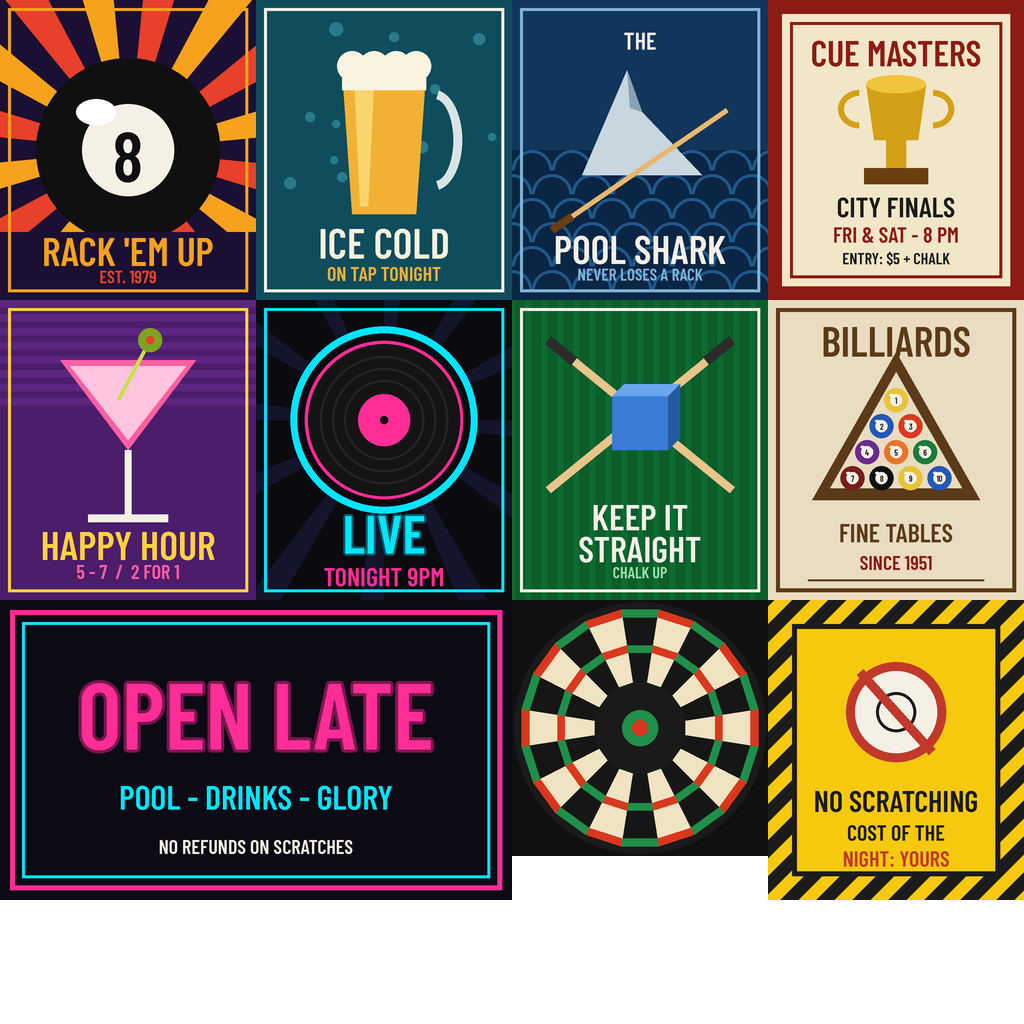
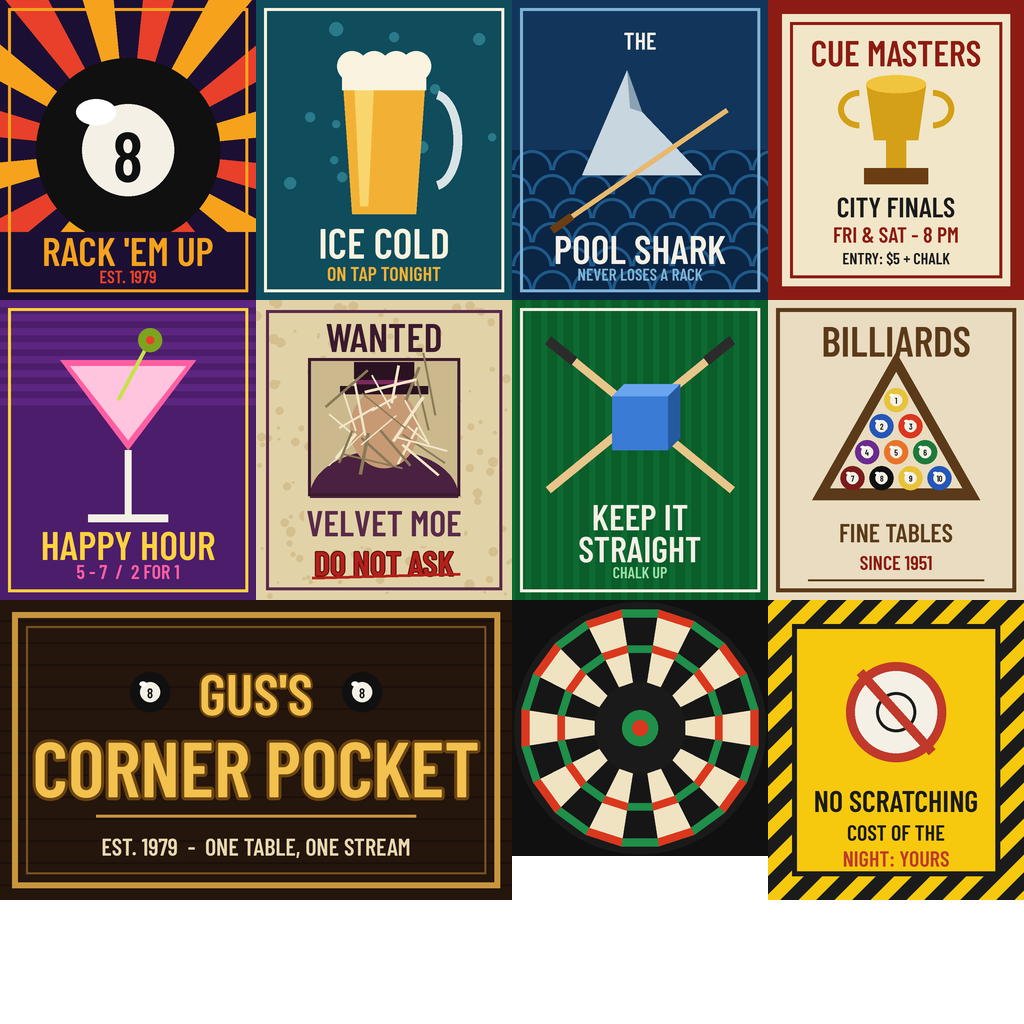
docs(06,09,03,04): P29-P32 rulings, story decisions; posters: wanted Moe + Corner Pocket sign
09 §6 decided (Moe real, in the stream chat as velvet; text only; lower blips;
cards local with GO LIVE as the wait) and corrected against the code
(phase_changed, send_full_state, per-player profile). Posters replace the
live-band poster and the open-late banner in their atlas cells.

Changed region(s): [[0.0, 0.2812, 0.5, 0.875]]

diff --git a/src/tools/make_posters.py b/src/tools/make_posters.py
@@ -163,21 +163,6 @@ def p_happy_hour():
     return c.done()
 
 
-def p_live_band():
-    c = Cell(CW, CH, "#0a0a0f")
-    c.rays(CW / 2, 120, 260, 24, "#14142a", "#0a0a0f")
-    for r, col in ((104, "#00e5ff"), (96, "#0a0a0f"), (88, "#ff2d95")):
-        c.ellipse(CW / 2, 120, r * 0.9, r * 0.9, col)
-    c.ellipse(CW / 2, 120, 76, 76, "#141414")
-    for r in (64, 52, 40):
-        c.ellipse(CW / 2, 120, r, r, None, "#262626", 2)
-    c.ellipse(CW / 2, 120, 26, 26, "#ff2d95")
-    c.ellipse(CW / 2, 120, 4, 4, "#0a0a0f")
-    c.text(CW / 2, 232, "LIVE", 54, "#00e5ff", stroke=2, stroke_fill="#005a66")
-    c.text(CW / 2, 276, "TONIGHT 9PM", 26, "#ff2d95")
-    c.border(8, "#00e5ff", 3)
-    return c.done()
-
 
 def p_chalk_cue():
     c = Cell(CW, CH, "#0b5d2a")
@@ -230,13 +215,49 @@ def p_no_scratch():
     return c.done()
 
 
-def banner():
-    c = Cell(CW * 2, CH, "#0c0a14")
-    c.rect(10, 10, CW * 2 - 10, CH - 10, None, "#ff2d95", 5)
-    c.rect(22, 22, CW * 2 - 22, CH - 22, None, "#00e5ff", 3)
-    c.text(CW, 112, "OPEN LATE", 94, "#ff2d95", stroke=3, stroke_fill="#7a1650")
-    c.text(CW, 196, "POOL - DRINKS - GLORY", 34, "#00e5ff")
-    c.text(CW, 246, "NO REFUNDS ON SCRATCHES", 20, "#f4f0e6")
+
+def p_wanted_moe():
+    """09 §2.2: the only portrait of Velvet Moe, face scratched out, defaced to read DO NOT ASK."""
+    c = Cell(CW, CH, "#e2d2a8")
+    rnd = random.Random(1979)
+    for _ in range(140):  # foxing: an old, handled sheet
+        x, y, r = rnd.uniform(0, CW), rnd.uniform(0, CH), rnd.uniform(1, 5)
+        c.ellipse(x, y, r, r, "#d4c08f")
+    c.border(10, "#5a2a4a", 3)
+    c.text(CW / 2, 36, "WANTED", 40, "#3b1a2e")
+    c.rect(52, 58, CW - 52, 196, "#cbb98d", "#3b1a2e", 3)
+    c.ellipse(CW / 2, 196, 74, 46, "#4a2140")  # velvet jacket shoulders, cut at the frame
+    c.rect(48, 198, CW - 48, 246, "#e2d2a8")
+    c.rect(52, 58, CW - 52, 196, None, "#3b1a2e", 3)
+    c.ellipse(CW / 2, 128, 34, 40, "#c79a74")  # the face
+    c.rect(84, 86, 172, 94, "#2b1222")  # hat brim
+    c.rect(98, 62, 158, 88, "#2b1222")  # hat crown
+    c.rect(98, 80, 158, 84, "#7a2a5c")  # band
+    for _ in range(28):  # scratched out: a blade, many times, by an angry hand
+        x0, y0 = CW / 2 + rnd.uniform(-46, 46), 128 + rnd.uniform(-48, 40)
+        a = rnd.uniform(-0.6, 0.6) + (math.pi / 4 if rnd.random() < 0.5 else -math.pi / 4)
+        l = rnd.uniform(28, 64)
+        c.line([(x0 - math.cos(a) * l / 2, y0 - math.sin(a) * l / 2), (x0 + math.cos(a) * l / 2, y0 + math.sin(a) * l / 2)],
+               "#f1e6c8" if rnd.random() < 0.6 else "#8a7a58", rnd.uniform(1.5, 3.5))
+    c.text(CW / 2, 222, "VELVET MOE", 36, "#5a2a4a")
+    c.text(CW / 2, 262, "DO NOT ASK", 34, "#b3201b", stroke=1, stroke_fill="#5a0e0b")
+    c.line([(56, 278), (204, 274)], "#b3201b", 3)
+    return c.done()
+
+
+def corner_pocket_sign():
+    """09 §2.2: the bar's own name over the entrance. 2-wide banner cell."""
+    c = Cell(CW * 2, CH, "#1a0f0a")
+    for i in range(0, CH, 22):  # dark wood planks
+        c.rect(0, i, CW * 2, i + 20, "#24150d")
+    c.rect(12, 12, CW * 2 - 12, CH - 12, None, "#c8963e", 6)
+    c.rect(26, 26, CW * 2 - 26, CH - 26, None, "#7a5320", 2)
+    c.text(CW, 92, "GUS'S", 58, "#f2c14e", stroke=2, stroke_fill="#6b4410")
+    c.text(CW, 166, "CORNER POCKET", 78, "#f2c14e", stroke=3, stroke_fill="#6b4410")
+    c.line([(96, 216), (CW * 2 - 96, 216)], "#c8963e", 3)
+    c.text(CW, 246, "EST. 1979  -  ONE TABLE, ONE STREAM", 24, "#e9d9b0")
+    for x in (150, CW * 2 - 150):
+        ball(c, x, 92, 20, "#101010", 8)
     return c.done()
 
 
@@ -264,7 +285,7 @@ def dartboard():
     return c.done()
 
 
-POSTERS = [p_eight_ball, p_cold_beer, p_shark, p_tournament, p_happy_hour, p_live_band, p_chalk_cue, p_billiards, p_no_scratch]
+POSTERS = [p_eight_ball, p_cold_beer, p_shark, p_tournament, p_happy_hour, p_wanted_moe, p_chalk_cue, p_billiards, p_no_scratch]
 
 
 def main():
@@ -272,7 +293,7 @@ def main():
     atlas = Image.new("RGB", (AW, AH), (255, 255, 255))  # the bottom strip stays white: untextured props sample it
     for i, fn in enumerate(POSTERS[:8]):
         atlas.paste(fn(), ((i % 4) * CW, (i // 4) * CH))
-    atlas.paste(banner(), (0, 2 * CH))
+    atlas.paste(corner_pocket_sign(), (0, 2 * CH))
     atlas.paste(dartboard(), (2 * CW, 2 * CH))
     atlas.paste(POSTERS[8](), (3 * CW, 2 * CH))
     os.makedirs(os.path.dirname(OUT), exist_ok=True)

diff --git a/docs/plan/09-story.md b/docs/plan/09-story.md
@@ -24,8 +24,10 @@ system and no rule changes.
 room we already have (`BarRoom`), with the story in its details:
 
 - A **wanted-style poster of Moe** that someone has defaced to read "VELVET MOE — DO NOT ASK".
-  It is the only portrait of him, and the face is scratched out.
-- A **"Gus's Corner Pocket — est. 1979" sign** above the back bar.
+  It is the only portrait of him, and the face is scratched out. It takes the "live band" poster's
+  slot on the west wall (same atlas cell, so no new material and no layout change).
+- A **"Gus's Corner Pocket — est. 1979" sign**: the 2-wide banner over the entrance (north wall),
+  replacing "open late". The back bar wall is keep-clear, so the sign greets you at the door instead.
 - A **wall phone** behind the counter. It rings once per Night (§3.2).
 - The **blackboard's debt line** reads as Moe's demand (§3.5).
 
@@ -41,14 +43,18 @@ StoryNight (Resource)          src/resources/story/story_night.gd
   gus_lines: Array[String]     # extra ambient lines for Gus, unlocked from this Night on
   paid_line: String            # Reckoning line when the Quota is met
   short_line: String           # the Game over line for this Night (Moe collects)
+  chat_line: String            # one stream-chat message from the viewer "velvet" (§3.7)
 ```
 
 `src/resources/story/night_1.tres` … `night_5.tres`, `endless.tres`. `NightConfig` gains one
 field, `story: StoryNight`, so `GameLoop.night_at(i)` keeps being the one place a Night comes from.
 Generated Endless Nights point at `endless.tres`.
 
-`SaveProfile` gains `story_seen: PackedInt32Array`, the Nights whose intro this player has already
-watched. It is per player, not per campaign, so a replay can skip what you already know (§3.1).
+`story_seen` (the Nights whose intro this player has already watched) is **per player**, so it lives
+in the player's own `user://profile.json` (the `save_skins` pattern), never in `SaveProfile`: the
+host's checkpoint blob overwrites every peer's copy. The same goes for Gus's said-story set (§3.3),
+which is per peer because Gus is cosmetic per peer (P24); it is keyed to the campaign so it resets on
+a new campaign and survives a Resume.
 
 ## 3. Rules
 
@@ -57,15 +63,20 @@ watched. It is per player, not per campaign, so a replay can skip what you alrea
   the dimmed bar, one tap per card, with a **Skip** button.
 - The first time a player reaches a given Night, they see its cards. After that the cards are
   skippable with a single tap and are auto-skipped on Resume.
-- Online, the cards are **local**: nobody waits on anyone. Intermission starts underneath, and the
-  GO LIVE pedestal already covers who is ready.
+- Online, the cards are **local**: each peer pages at its own speed and Intermission starts
+  underneath. Nobody can miss the Round: GO LIVE (P20) needs every connected player's press, and a
+  player can't press it while the cards are open. A slow reader holds the start the same way an open
+  bartender menu already does; four short cards are a few seconds.
+- On Resume the cards of a Night this player has already seen do not open. A mid-Night resume never
+  opens them.
 - At most 4 cards per Night, each at most 140 characters. They are read on a phone between turns.
 
 ### 3.2 The phone
 - During each Night's first Intermission, the wall phone rings until someone answers. It is an
   `Interactable` behind the counter, prompt "Answer the phone".
 - Answering puts Moe **on speaker**. Every player sees the call as subtitles (a speech bubble above
-  the phone), with lower, slower voice blips than Gus's (P24's blips at another pitch).
+  the phone), with lower, slower voice blips than Gus's: P24's blips at ×0.6 pitch and ×1.4 syllable
+  length. Gus stays quiet while the call plays.
 - Answering is optional. If nobody does, it stops ringing when the Round goes live, and Gus covers
   for it with one line from the `phone_ignored` pool (§4.3).
 - Once answered, the phone stays quiet until the next Night.
@@ -73,10 +84,12 @@ watched. It is per player, not per campaign, so a replay can skip what you alrea
 ### 3.3 Gus
 - `gus_lines` from Night N **join** his existing pools from Night N onward (P24 keeps the
   pep / special / pitch / reaction pools).
-- Story lines are drawn at weight `0.35 [tune]` against the other ambient pools. Each one is said at
-  most once per campaign, so the story drips out instead of looping.
+- While unsaid story lines remain, each ambient roll picks the story pool with probability
+  `0.35 [tune]` (a share of rolls, not a raw weight next to the others). Each line is said at most
+  once per campaign, so the story drips out instead of looping.
 - His tone shifts by Night: jokes at Night 1, nervous at 3, honest at 5. Night 5 is the only one
-  where he drops the sarcasm (A.1).
+  where he drops the sarcasm (A.1): his negative reaction pools and sales pitches are muted that
+  Night.
 
 ### 3.4 Hazards as Moe's people
 - Every `Event` gains one flavor line, `story_line: String`, shown under its name on the vote card
@@ -101,40 +114,53 @@ data:
 - Night 5: `THE BUYOUT · $4,500 · LAST CALL`
 - Endless: `MOE RAISED THE RATE · $4,800`
 
+Cash can be negative after a scratch fine (P16); the ledger shows it as it is (`-$25`).
+
 ### 3.6 Endings (phase screens, text only)
 - **Reckoning, Quota met:** the Night's `paid_line`, from Moe on the phone.
 - **Game over (Quota missed):** the Night's `short_line`. Same screen and buttons as today.
 - **Campaign won (Buyout paid):** three cards (A.3), then the existing Endless / Menu buttons.
 - **Endless:** every Endless Night opens with one card from `endless.tres`.
 
+### 3.7 The twist: Moe is in the chat
+Moe is real, and he never needed a seat: he watches from the stream chat. Every Night, 15 s
+`[tune]` after Round 1 goes live, every peer shows one stream-chat line from the viewer **velvet**
+(the Night's `chat_line`) as a toast. It costs nothing and pays nothing. Nobody comments on it until
+the ending (A.3) says who velvet is.
+
 ## 4. Godot implementation sketch
 
 ### 4.1 Nodes and files
 - `StoryDirector` (Node, child of `MainLevel`, `src/gameplay/story/story_director.gd`). It listens
-  to `GameLoop.night_started`, `intermission_started`, `state_changed`. It opens the cards, arms the
-  phone, and hands Gus his pool. It runs on every peer and owns no networked state.
+  to `GameLoop.night_started`, `intermission_started`, `phase_changed(phase)` (`state_changed` has no
+  argument). It opens the cards, arms the phone, and hands Gus his pool. It runs on every peer and owns
+  no networked state except the phone's "answered this Night" flag, which the host resyncs through
+  `RoundDirector.send_full_state`.
 - `StoryCards` (UIModal, `src/ui/story_cards.gd/.tscn`): one modal in the `UIRouter` stack, at
-  priority above PhaseScreen. Tap advances, Skip closes.
+  priority above PhaseScreen and below EventVote, `keep_on_phase = true` (the NIGHT_START →
+  INTERMISSION phase change must not close it). Tap advances, Skip closes.
 - `Phone` prop: an `Interactable` at the back bar (an exact spot that `decor_plan.gd`'s keep-clear
   accepts), kind `answer_phone`, a bare kind like `go_live`.
 - Content: `src/resources/story/*.tres`. The `story_line` field goes on `src/resources/effect/event.gd`
   and into the 8 event `.tres` files.
-- Art: two new posters in `src/tools/make_posters.py` (`p_wanted_moe`, `p_corner_pocket_sign`), in
-  the same atlas, so no new material.
+- Art: two posters in `src/tools/make_posters.py` (`p_wanted_moe`, `p_corner_pocket_sign`) replace
+  "live band" and the "open late" banner in their atlas cells, so no new material and no new layout.
 
 ### 4.2 Networking
 - **Cards:** local, no RPC.
 - **Phone:** `request_world_interaction(answer_phone, 0, {})`. The host validates it in
   INTERMISSION, with `_reach`, and not already answered this Night. It goes out through the
   existing `world_interaction_applied` broadcast, and every peer plays the same call. The
-  "answered" flag rides GameLoop's `full_state`, so a resumed client doesn't hear it ring again.
+  "answered" flag rides `RoundDirector.send_full_state` (StoryDirector joins its resync list), so a
+  resumed client doesn't hear it ring again.
   **No new `@rpc`**, so the 04 §5 table only gains a row in the kinds table.
 - **Gus:** stays cosmetic and per peer (P24), with the story pool seeded per Night.
 
 ### 4.3 Gus pools
 `bartender_lines.gd` gains the `story` pool, filled from the current `StoryNight.gus_lines`, and
-`phone_ignored`. `bartender_chat.gd` adds `story` to the ambient draw at `0.35 [tune]` and keeps a
-`said_story` set in the campaign checkpoint, so "once per campaign" survives a Resume.
+`phone_ignored`, kept apart from `POOLS` (those small pools are not P24's ≥15-line ambient pools).
+`bartender_chat.gd` gives `story` its `0.35 [tune]` share (§3.3) and keeps a `said_story` set in the
+player profile (§2.3), so "once per campaign" survives a Resume.
 
 ## 5. Interfaces to other modules
 
@@ -148,24 +174,21 @@ data:
 | `Blackboard` | `GameLoop` / `EconomyManager` | footer text per §3.5 |
 | `EventVote` / `Blackboard` | `Event.story_line` | flavor under the name |
 
-## 6. Open questions (Cleanse decides)
+## 6. Decisions (06 P29, 2026-10-11 — Cleanse delegated all four)
 
-1. **The twist.** The draft ending says Gus *was* Velvet Moe all along: the bar is his collection
-   office, and the "owner in debt" act is how he keeps crews paying. The alternative: Moe is real,
-   and the twist is that he was in the stream chat every night. Pick one before Appendix A is written in
-   full.
-2. **Should the story ever touch the rules?** The draft is presentation only. One option: on Night 4,
-   if the crew is ahead, Gus quietly offers a "favor" drink, and accepting it unlocks the true
-   ending. That would be a real branch, with economy and design work.
-3. **Moe's voice.** Lower blips are the default. A short real voice line (one recorded "Evening.")
-   would be the first non-generated audio file.
-4. **Skip policy online.** Cards are local, so a slow reader never holds anyone up, but they might
-   miss the first Round's start. The alternative is that Round 1 of a Night waits until every peer
-   has closed its cards. Only that would change GO LIVE.
+1. **The twist: Moe is real, and he was in the stream chat every Night** (§3.7, A.3). Not "Gus was
+   Moe": Moe phones the bar while Gus stands behind the counter, and Night 5 only works if Gus's
+   honesty is real.
+2. **The story never touches the rules.** Text, posters and the phone only. The Night 4 favor branch
+   stays in Later.
+3. **Moe's voice is P24's blips, lower and slower** (×0.6 pitch, ×1.4 length). No recorded audio.
+4. **Cards stay local; GO LIVE is the wait.** Nobody can miss the Round start, because every
+   connected player must press GO LIVE, and an open card holds that player's press (§3.1). GO LIVE
+   itself is unchanged.
 
 ## 7. MVP cut vs later
 
-**MVP (one slice):**
+**MVP (one slice, built 2026-10-11):**
 - `StoryNight` resources with the Appendix A text.
 - `StoryCards` at NIGHT_START.
 - The phone with the speaker-call subtitle.
@@ -174,6 +197,7 @@ data:
 - The blackboard ledger wording.
 - The two posters.
 - The Reckoning, Game over and Campaign won lines.
+- velvet's chat line each Night.
 - Probes: every campaign Night has a StoryNight. Cards open once and skip. The phone rings, can be
   answered once, and survives a resume (pair probe). No story line repeats inside a campaign.
 
@@ -188,6 +212,8 @@ data:
 
 ### A.1 Night by Night
 
+Every chat line below is shown as `velvet: <text>`.
+
 **Night 1 — "The Bet"** (Quota $600)
 - Intro cards:
   1. "You bet on yourselves. Against Velvet Moe. In his own pool hall."
@@ -201,6 +227,7 @@ data:
   · "My first Night I owed him forty dollars. That was 1979."
 - Paid: "Huh. You paid. That's the most interesting thing that's happened in this bar in years."
 - Short: "Six hundred dollars. You couldn't find six hundred dollars. Gus, lock the door."
+- Chat: "first rack's always the loudest. enjoy it"
 
 **Night 2 — "Interest"** (Quota $900)
 - Intro cards:
@@ -213,6 +240,7 @@ data:
   · "That wanted poster? I didn't scratch the face out. I found it like that."
 - Paid: "Nine hundred. You're starting to look like an investment."
 - Short: "Interest is a funny thing. It keeps going after you stop."
+- Chat: "nice cushions"
 
 **Night 3 — "The Rope"** (Quota $1,350)
 - Intro cards:
@@ -226,6 +254,7 @@ data:
   He uses it to point." · "You're getting better. That's worse for me, somehow."
 - Paid: "Good. The city saw that. The city is learning."
 - Short: "Three Nights. I'll admit I'd started to like the show."
+- Chat: "if the table leans, lean with it"
 
 **Night 4 — "The Ledger"** (Quota $2,000)
 - Intro cards:
@@ -240,6 +269,7 @@ data:
   always calls on the fourth Night."
 - Paid: "Then it's settled. Tomorrow, the Buyout. Everything. Bring a crowd."
 - Short: "So close. People always are, on the fourth Night."
+- Chat: "page one. then forty more"
 
 **Night 5 — "Last Call"** (Buyout $4,500)
 - Intro cards:
@@ -252,7 +282,9 @@ data:
   first one I'd bet on." · "If this goes wrong, the back door sticks. Kick it twice."
   · "Pour's on the house tonight. Don't tell Moe. Actually, tell him." · "Whatever he says on that
   phone, you don't owe him your nerve."
+- Paid: the ending (A.3) replaces the Reckoning line.
 - Short: "Gus. Close the bar. The show's over."
+- Chat: "last call"
 
 ### A.2 Ignored phone (`phone_ignored`)
 - "That was for me. Probably. Let's say it was for me."
@@ -263,9 +295,8 @@ data:
 1. "The Buyout clears live, in front of more viewers than this bar has ever had."
 2. "The phone rings one last time. Moe: 'Paid in full. The city saw. You're free.' A pause.
    'Gus, my office. Tomorrow.'"
-3. "Gus pours you a drink and doesn't charge for it. Then he takes the wanted poster down, turns it
-   over, and you see the face underneath for the first time. It's an old photo of Gus. Signed:
-   'Velvet'."
+3. "The chat scrolls one last line. velvet: 'good show. same table tomorrow?' Gus reads the name
+   twice. 'He was in the chat. Every Night. He never missed a shot.'"
 
 Endless (`endless.tres`), one card per Night: "Somebody bought Gus's debt. The rate went up. The
-stream goes on."
+stream goes on." Chat: "same table. new rate".

diff --git a/docs/plan/06-final-decisions.md b/docs/plan/06-final-decisions.md
@@ -219,3 +219,13 @@ Rewrite 01/02/03/04 against D1–D7 **as amended by P1–P5**, add 07. Then Play
 **P27 — Stay where you shot.** After firing, the player keeps the spot they shot from, snapped to free floor. Backing out of aiming still returns them to where they stood before.
 
 **P28 — A richer bar from CC0 packs.** Stylized low-poly CC0 props (Kenney / Quaternius style) and generated poster art. Licenses are kept beside the assets under `assets/third_party/`. The decor is baked into the lightmap and atlased. The spin and elevation controls open enlarged pickers on tap. The table's inner-edge glare is removed.
+
+# Cleanse's rulings (2026-10-11) — the story build and the second table pass (override 01's "pot = sensor at the nose line", the authored racks' black-ball spots, 09 §6's open questions)
+
+**P29 — The story is presentation only; Moe is real.** Build 09 as written with its §6 decisions: Moe is a real loan shark who watches every Night from the stream chat as "velvet" (that is the twist, not "Gus was Moe"); no rule branch (the Night 4 favor drink stays Later); Moe speaks in P24's blips, lower and slower, with no recorded audio; intro cards are local per player, and GO LIVE's every-player press is what keeps a slow reader from missing the Round. Cleanse delegated these four calls.
+
+**P30 — Real pockets, generously big.** A pocket is a hole: the bed and the cloth are cut open at every pocket, a ball that rolls over the hole falls into it under gravity, drops into a pocket cup below the cloth, and only then counts as potted. No ball is potted or hidden while it is still on or above the cloth. Pocket mouths are widened well past regulation (corner ≥ 2.5 ball diameters, side ≥ 2.7) so a slightly off-line shot still drops. Pocket hazards and upgrades (radius ×, Moving Pockets) move and resize the real hole, not only a sensor.
+
+**P31 — The black ball starts in the middle.** In every opening formation, authored or seeded, the black ball takes the spot nearest the formation's centre: the middle of the triangle's third row in a triangle rack, the most central slot in a scatter. If a rack has more than one black ball, the others keep their spots.
+
+**P32 — No glare in the table's seams.** Where the cushions meet the rails and the cloth, nothing shines: no bright line, sparkle or light leak at any camera angle a player can reach. P28's matte materials stay; the seams themselves are closed.

diff --git a/docs/plan/04-architecture-netcode.md b/docs/plan/04-architecture-netcode.md
@@ -257,6 +257,7 @@ Non-shooters roam the bar. Every one of those interactions is one RPC pair, and 
 | `prop_use` | stool, jukebox, light switch | proximity, cooldown | 03 Effect |
 | `table_bump` | table | proximity, per-Round budget, shot is live | 03 `table_tilt` Effect |
 | `go_live` | the pedestal (no `WorldInteraction` resource, like `bar_buy`) | phase is Intermission, proximity | 02 §3.1 `GameLoop.toggle_ready` |
+| `answer_phone` | the wall phone (bare kind, target 0, like `go_live`) | phase is Intermission, proximity, the phone is ringing and not yet answered this Night | 09 §3.2 `StoryDirector`; the answered flag rides `RoundDirector.send_full_state` |
 
 The host is the only validator; a rejected request comes back as `world_interaction_rejected` and the client rolls back its optimistic animation. `request_drink_purchase` from the old draft is gone — under P3 the bartender NPC is the shop, so buying a drink is `bar_buy`. Every applied interaction becomes an `Effect` with `owner_peer_id` (D6), and physics-altering Effects are applied to the authoritative `PhysicsSim` first, then broadcast; clients never simulate an alteration locally.
 

diff --git a/docs/plan/03-bar-drinks-events.md b/docs/plan/03-bar-drinks-events.md
@@ -77,6 +77,7 @@ There is no `reward_multiplier_contribution`: reward lives on `Drink` and `Event
 | `round_time_add_sec` | `float` | Round length delta, positive or negative — the honest knob the old `energy_drink` faked |
 | `warning_lead_time_sec` | `float` | telegraph before activation, default `3.0 [tune]`; emitted with `event_warning` for a forced `scripted_first` Event (a voted one is telegraphed by the vote itself) |
 | `opportunity`, `opportunity_mult` | `enum {NONE, NEXT_POT, RANDOM_POCKET}`, `float` | the two opportunity Events' targeted payoff (§3.6), read through `EffectManager.pot_bonus()` |
+| `story_line` | `String` | 09 §3.4 flavor ("The Rope sent a 'doorman'…"), shown under the name on the vote card and the blackboard; no mechanical effect |
 
 ### 2.6 `WorldInteraction` (`Resource`)
 | field | type | notes |
